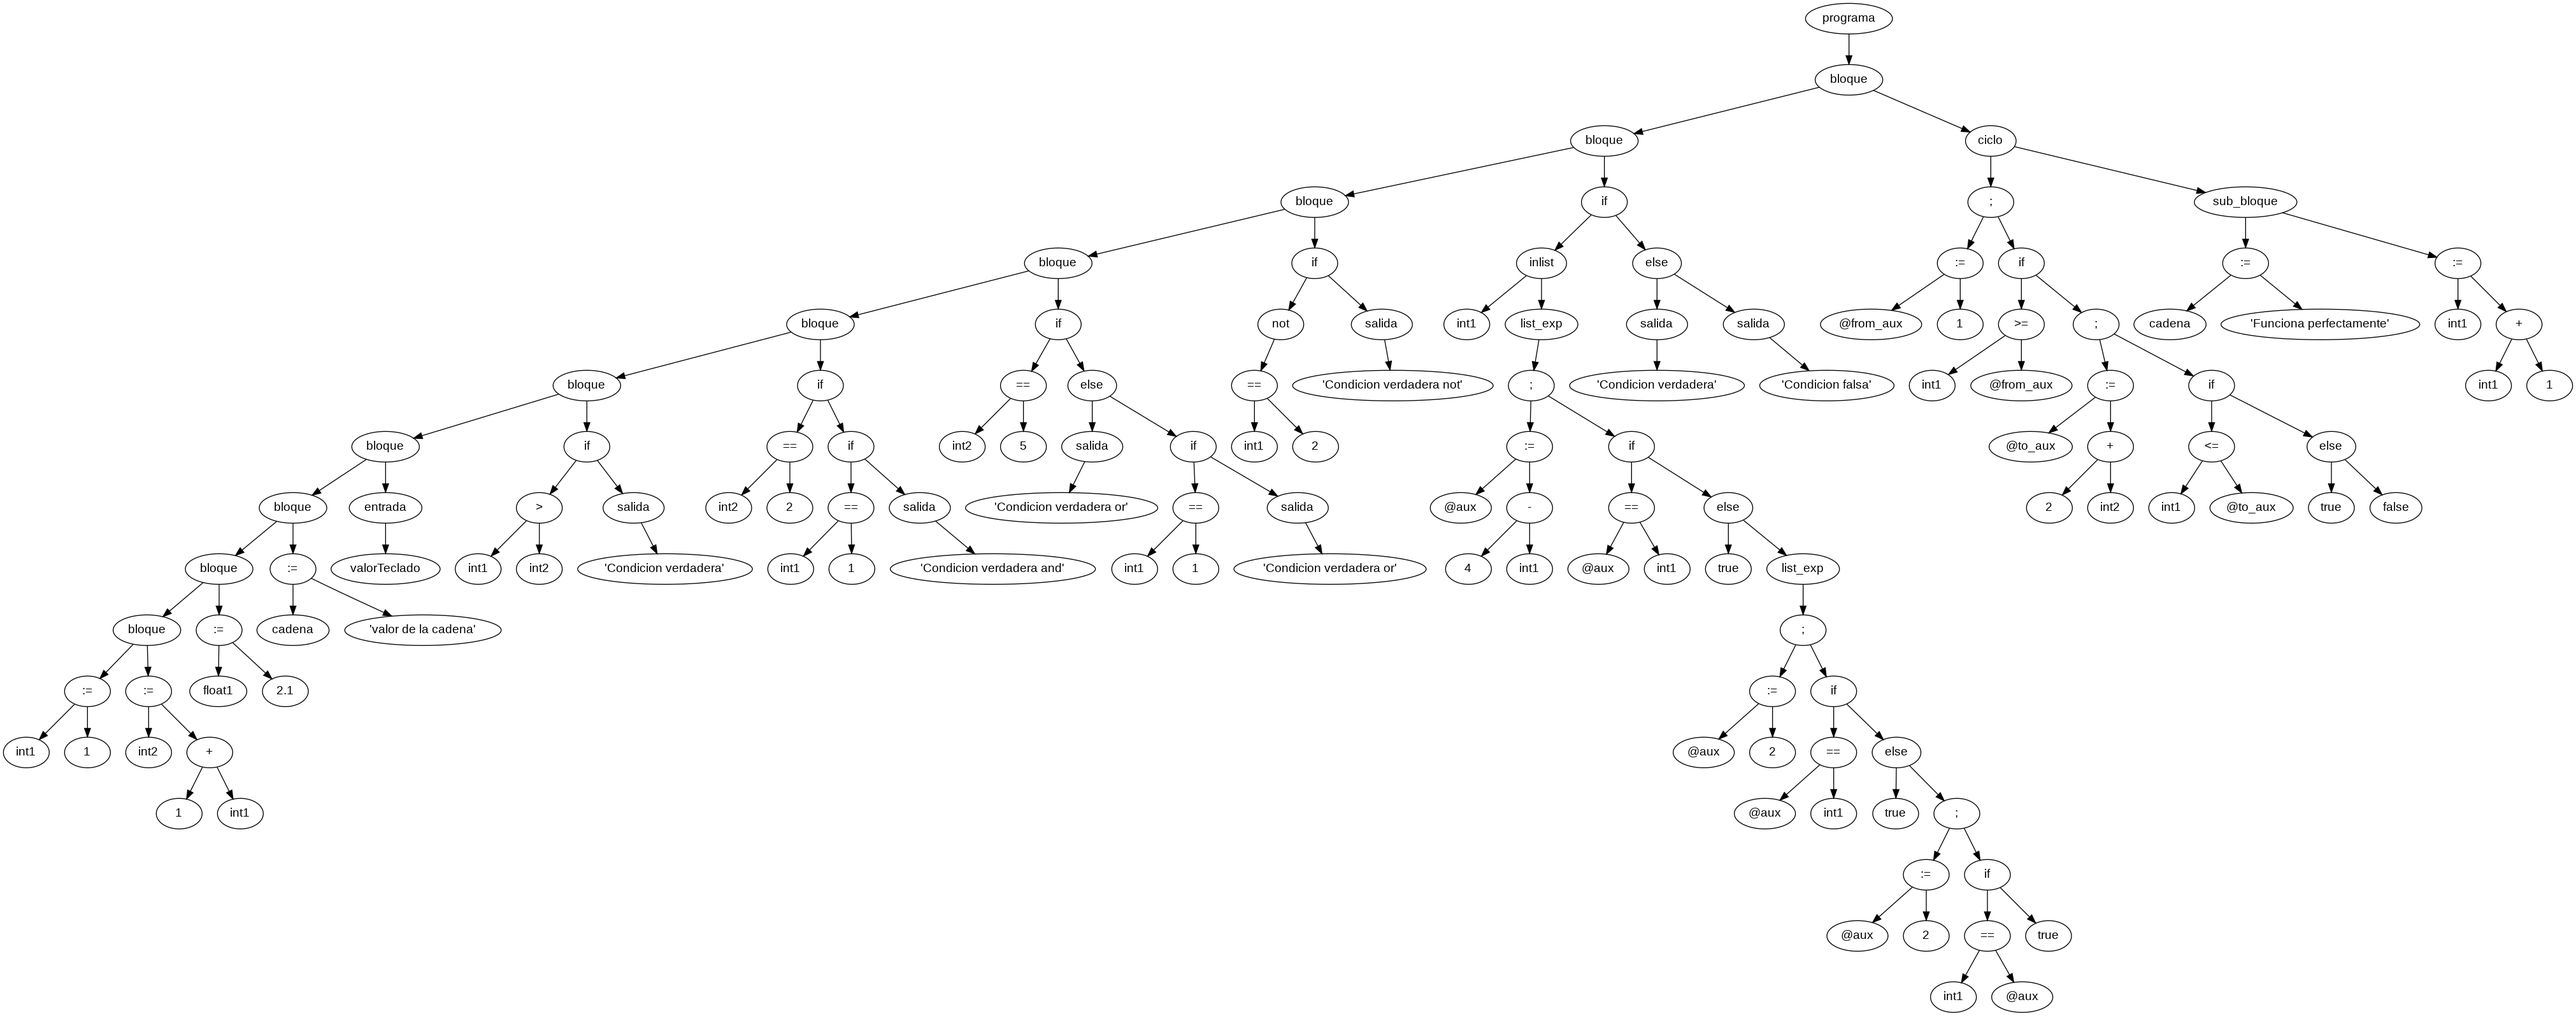
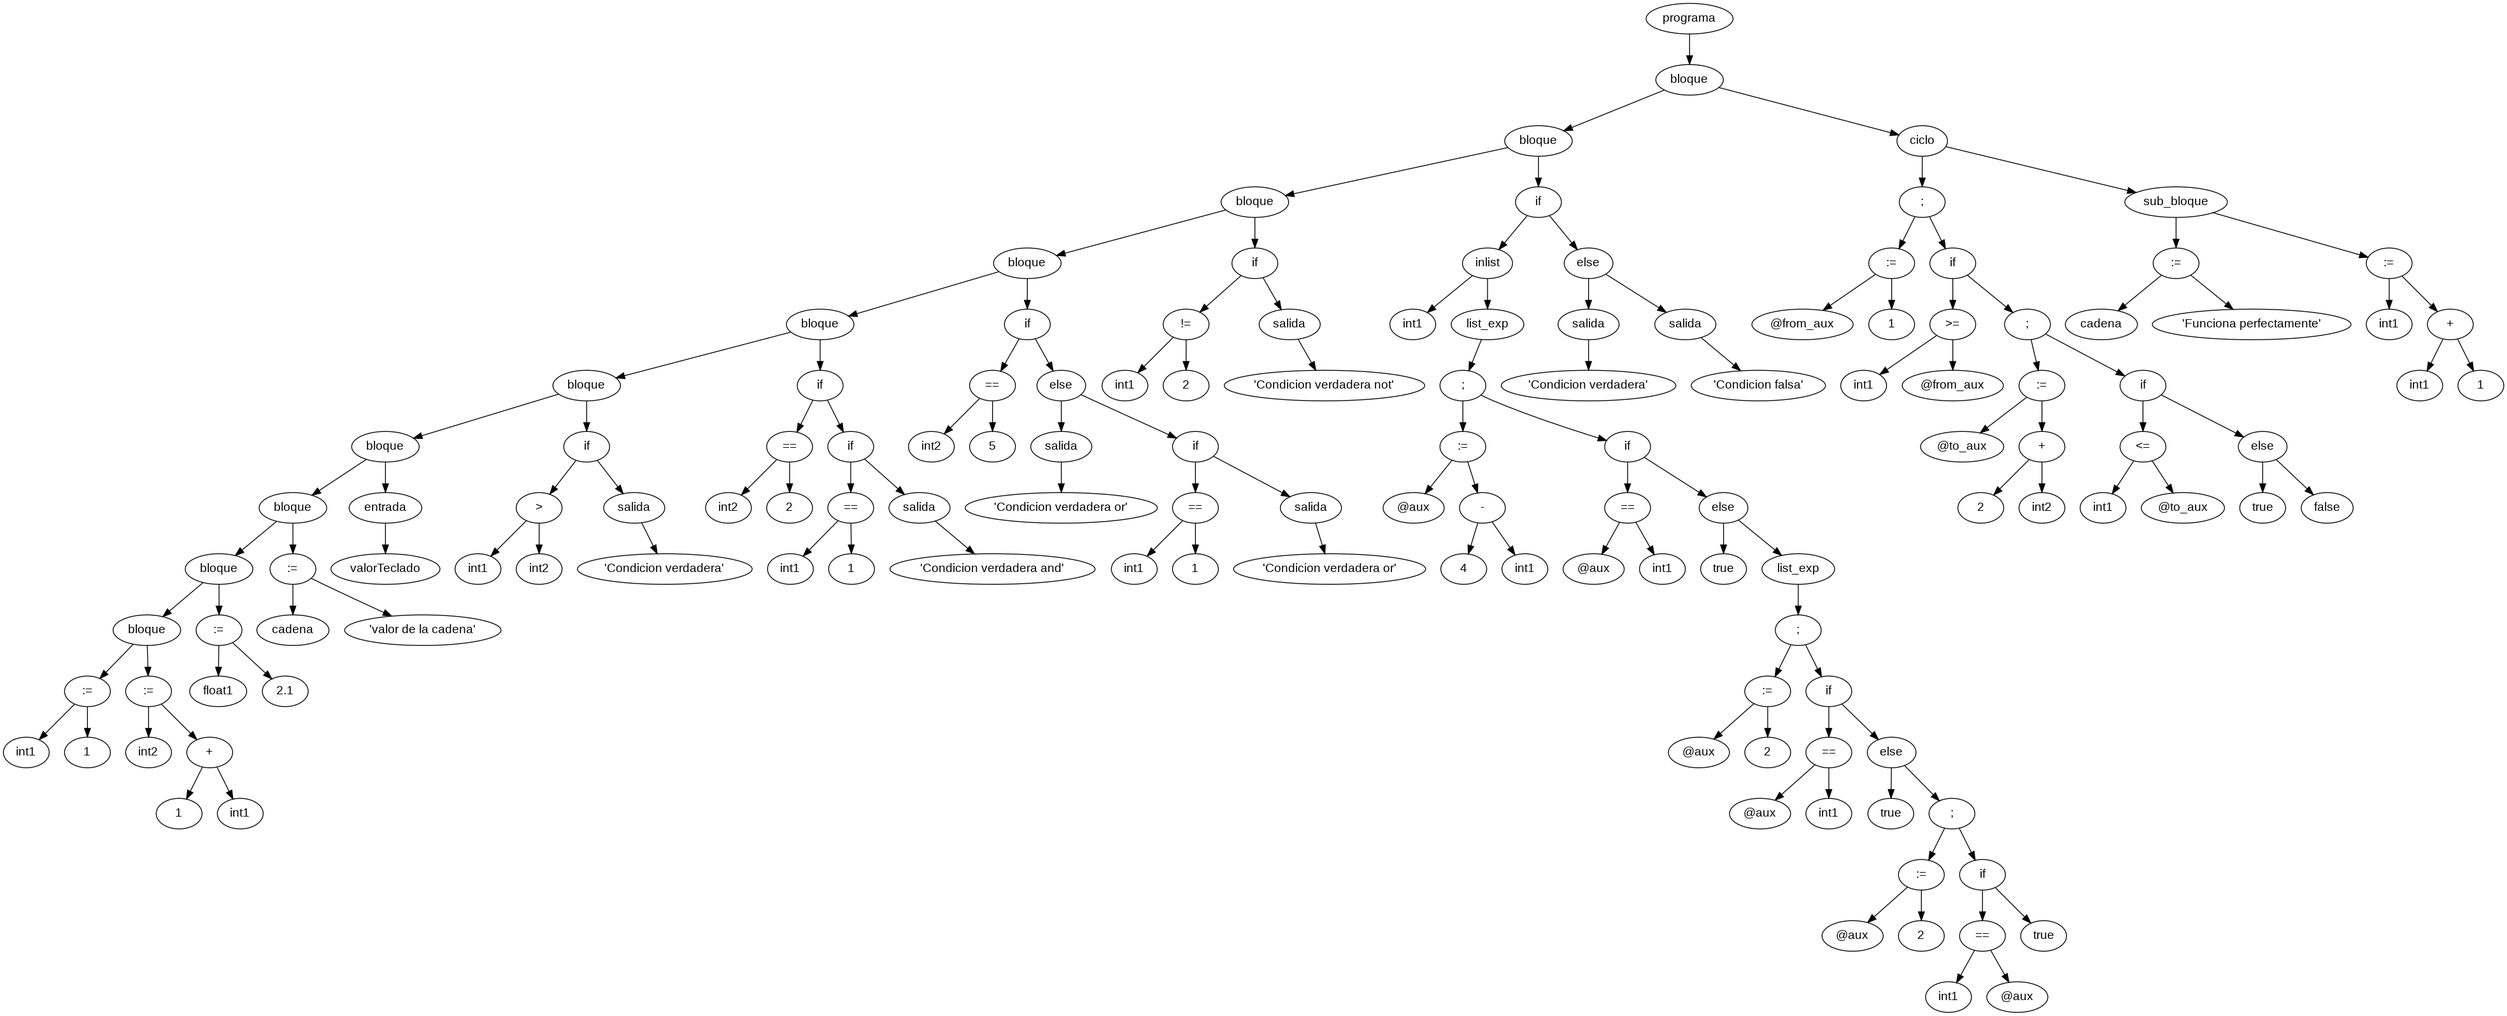
Fix errores

diff --git a/tercera_entrega/arbol.h b/tercera_entrega/arbol.h
@@ -17,14 +17,14 @@ t_nodo* crearHoja( char* lexema);
 t_nodo* crearNodo( char* lexema, t_nodo* hijoIzq, t_nodo* hijoDer);
 void inOrden(t_arbol *pa, FILE *pIntermedia);
 char* replace_char(char* str, char find, char replace);
+void invertirOperador(t_nodo* n);
 void generarAssembler(t_arbol *pa, FILE *f, struct struct_tablaSimbolos* ts);
 void  printTablaDeSimbolosAsm(struct struct_tablaSimbolos *ts, FILE *f);
 t_arbol* inOrderAssembler(t_arbol *pa, FILE *f);
 int esHoja(t_arbol* pa);
-void invertirOperador(t_nodo* n);
+void traduccionAssembler(t_arbol* pa, FILE* f);
+void traduccionCond(t_arbol* pa, FILE* f, char* salto);
 
-extern struct struct_tablaSimbolos tablaSimbolos[1000]; 
-extern int puntero_array;
 int contAux = 0;
 int contSalto = 0;
 char str_aux[20];
@@ -113,6 +113,33 @@ char* replace_char(char* str, char find, char replace){
     return str;
 }
 
+void invertirOperador(t_nodo* n){
+    if(strcmp(n->data, "==") == 0){
+        strcpy(n->data, "!=");
+        return;
+    }
+    if(strcmp(n->data, "!=") == 0){
+        strcpy(n->data, "==");
+        return;
+    }
+    if(strcmp(n->data, "<") == 0){
+        strcpy(n->data, ">=");
+        return;
+    }
+    if(strcmp(n->data, ">=") == 0){
+        strcpy(n->data, "<");
+        return;
+    }
+    if(strcmp(n->data, ">") == 0){
+        strcpy(n->data, "<=");
+        return;
+    }
+    if(strcmp(n->data, "<=") == 0){
+        strcpy(n->data, ">");
+        return;
+    }
+}
+
 void generarAssembler(t_arbol *pa, FILE *f_asm, struct struct_tablaSimbolos* ts){
 	char Linea[300];
 
@@ -167,33 +194,6 @@ int esHoja(t_arbol* pa){
         return 0;
  
     return (!(*pa)->izq) && (!(*pa)->der);
-}
-
-void invertirOperador(t_nodo* n){
-    if(n->data == "=="){
-        strcpy(n->data, "!=");
-        return;
-    }
-    if(n->data == "!="){
-        strcpy(n->data, "==");
-        return;
-    }
-    if(n->data == "<"){
-        strcpy(n->data, ">=");
-        return;
-    }
-    if(n->data == ">="){
-        strcpy(n->data, "<");
-        return;
-    }
-    if(n->data == ">"){
-        strcpy(n->data, "<=");
-        return;
-    }
-    if(n->data == "<="){
-        strcpy(n->data, ">");
-        return;
-    }
 }
 
 t_arbol* inOrderAssembler(t_arbol *pa, FILE *f){
@@ -299,6 +299,5 @@ void traduccionCond(t_arbol* pa, FILE* f, char* salto){
     (*pa)->izq = NULL;
     (*pa)->der = NULL;
 }
-
 
 #endif // ARBOL_H_INCLUDED

diff --git a/tercera_entrega/ts.h b/tercera_entrega/ts.h
@@ -4,6 +4,10 @@
 #include <stdlib.h>
 #include <string.h>
 
+#define TS_INT 1
+#define TS_FLOAT 2
+#define TS_STRING 3
+
 struct struct_tablaSimbolos
 {
 	char nombre[100];
@@ -16,6 +20,9 @@ int puntero_array = 0;
 struct struct_tablaSimbolos tablaSimbolos[1000];
 
 int guardarEnTablaSimbolos(char*, char*);
+void escribirEnTablaSimbolos();
+void validarSimbolo(char*);
+void validarTipoSimbolo(char*, int);
 
 int guardarEnTablaSimbolos(char* tipo, char* nombre){
 	
@@ -74,6 +81,70 @@ int guardarEnTablaSimbolos(char* tipo, char* nombre){
 	puntero_array++;
 	
 	return posicion;
+}
+
+void escribirEnTablaSimbolos(){
+	FILE *pf; 
+	int i;
+	pf = fopen("ts.txt","w"); 
+
+	if (pf == NULL)
+	{
+		printf("ERROR! No se pudo crear correctamente el archivo de la tabla de simbolos\n");
+	}
+
+	int ancho_tabla = fprintf(pf, "|%-30s|%-15s|%-32s|%-8s|\n", "Nombre","Tipo","Valor","Longitud");
+	for(i = 0; i < ancho_tabla-1; ++i)
+			fprintf(pf, "-");
+	fprintf(pf, "\n");
+	for (i = 0; i < puntero_array; i++)
+			fprintf(pf,"|%-30s|%-15s|%-32s|%-8s|\n", tablaSimbolos[i].nombre,tablaSimbolos[i].tipo,tablaSimbolos[i].valor,tablaSimbolos[i].longitud);
+
+
+	fclose(pf); 
+}
+
+void validarSimbolo(char* lexema){
+	for(int i = 0; i < puntero_array; i++) {
+		if(strcmp(tablaSimbolos[i].nombre, lexema) == 0){
+			return;
+		}
+	}
+
+	printf("ERROR! La variable %s no se encuentra definida", lexema);
+	exit(0);
+}
+
+void validarTipoSimbolo(char* lexema, int tipo){
+	int pos = -1;
+
+	for(int i = 0; i < puntero_array; i++) {
+		if(strcmp(tablaSimbolos[i].nombre, lexema) == 0){
+			pos = i;
+			break;
+		}
+	}
+
+	if(pos == -1){
+		printf("ERROR! La variable %s no se encuentra definida", lexema);
+		exit(0);
+	}
+
+	switch(tipo){
+		case TS_INT:
+		case TS_FLOAT:
+			if(strcmp(tablaSimbolos[pos].tipo,"string") == 0){
+				printf("ERROR! La variable %s de tipo %s no es entera o flotante!",tablaSimbolos[pos].nombre, tablaSimbolos[pos].tipo);
+				exit(0);
+			}
+			break;
+		case TS_STRING:
+			if(strcmp(tablaSimbolos[pos].tipo,"string") != 0){
+				printf("ERROR! La variable %s de tipo %s no es una string!",tablaSimbolos[pos].nombre, tablaSimbolos[pos].tipo);
+				exit(0);
+			}
+			break;
+	}
 }
 
 #endif
